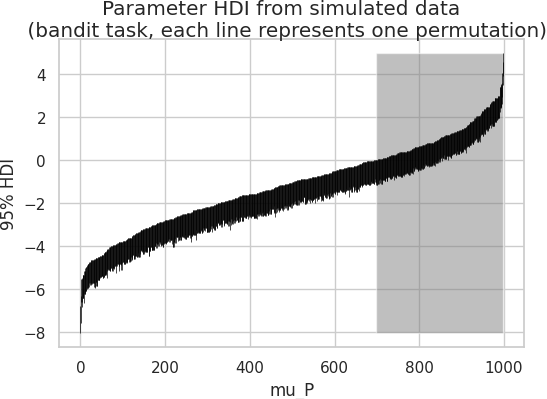
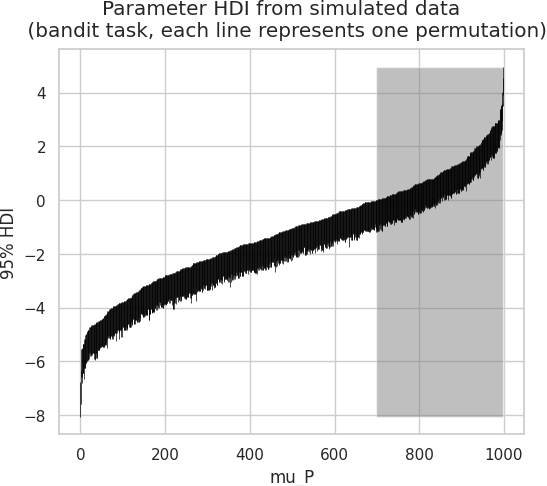
replot

diff --git a/compare_hdi.py b/compare_hdi.py
@@ -243,7 +243,7 @@ def plot_hdi_permutations(csv_params, model_name, n_perm):
     df = pd.read_csv(csv_params)
     param_ls = np.unique(df['param'])
     for param in param_ls:
-        fig, ax = plt.subplots(figsize=(6,4))
+        fig, ax = plt.subplots(figsize=(6,5))
         df_tmp = df[(df['param']==param) & (df['group']=='control')]
         df_tmp_sort = df_tmp.sort_values(by=['hdi_high'],ascending=True)
         fill_indicator = sum(df_tmp_sort['hdi_high']>0)<sum(df_tmp_sort['hdi_high']<=0)
@@ -281,5 +281,5 @@ if __name__ == "__main__":
         print('model must be bandit or generalise.')
     n_perm = 1000
     # comp_hdi_mean(model_name, param_ls, sort=False, draw_idx=30, draws=n_perm)
-    plot_violin_params(f'./figs/{model_name}/params.csv', model_name, n_perm=n_perm)
+    # plot_violin_params(f'./figs/{model_name}/params.csv', model_name, n_perm=n_perm)
     plot_hdi_permutations(f'./figs/{model_name}/params.csv', model_name, n_perm)
